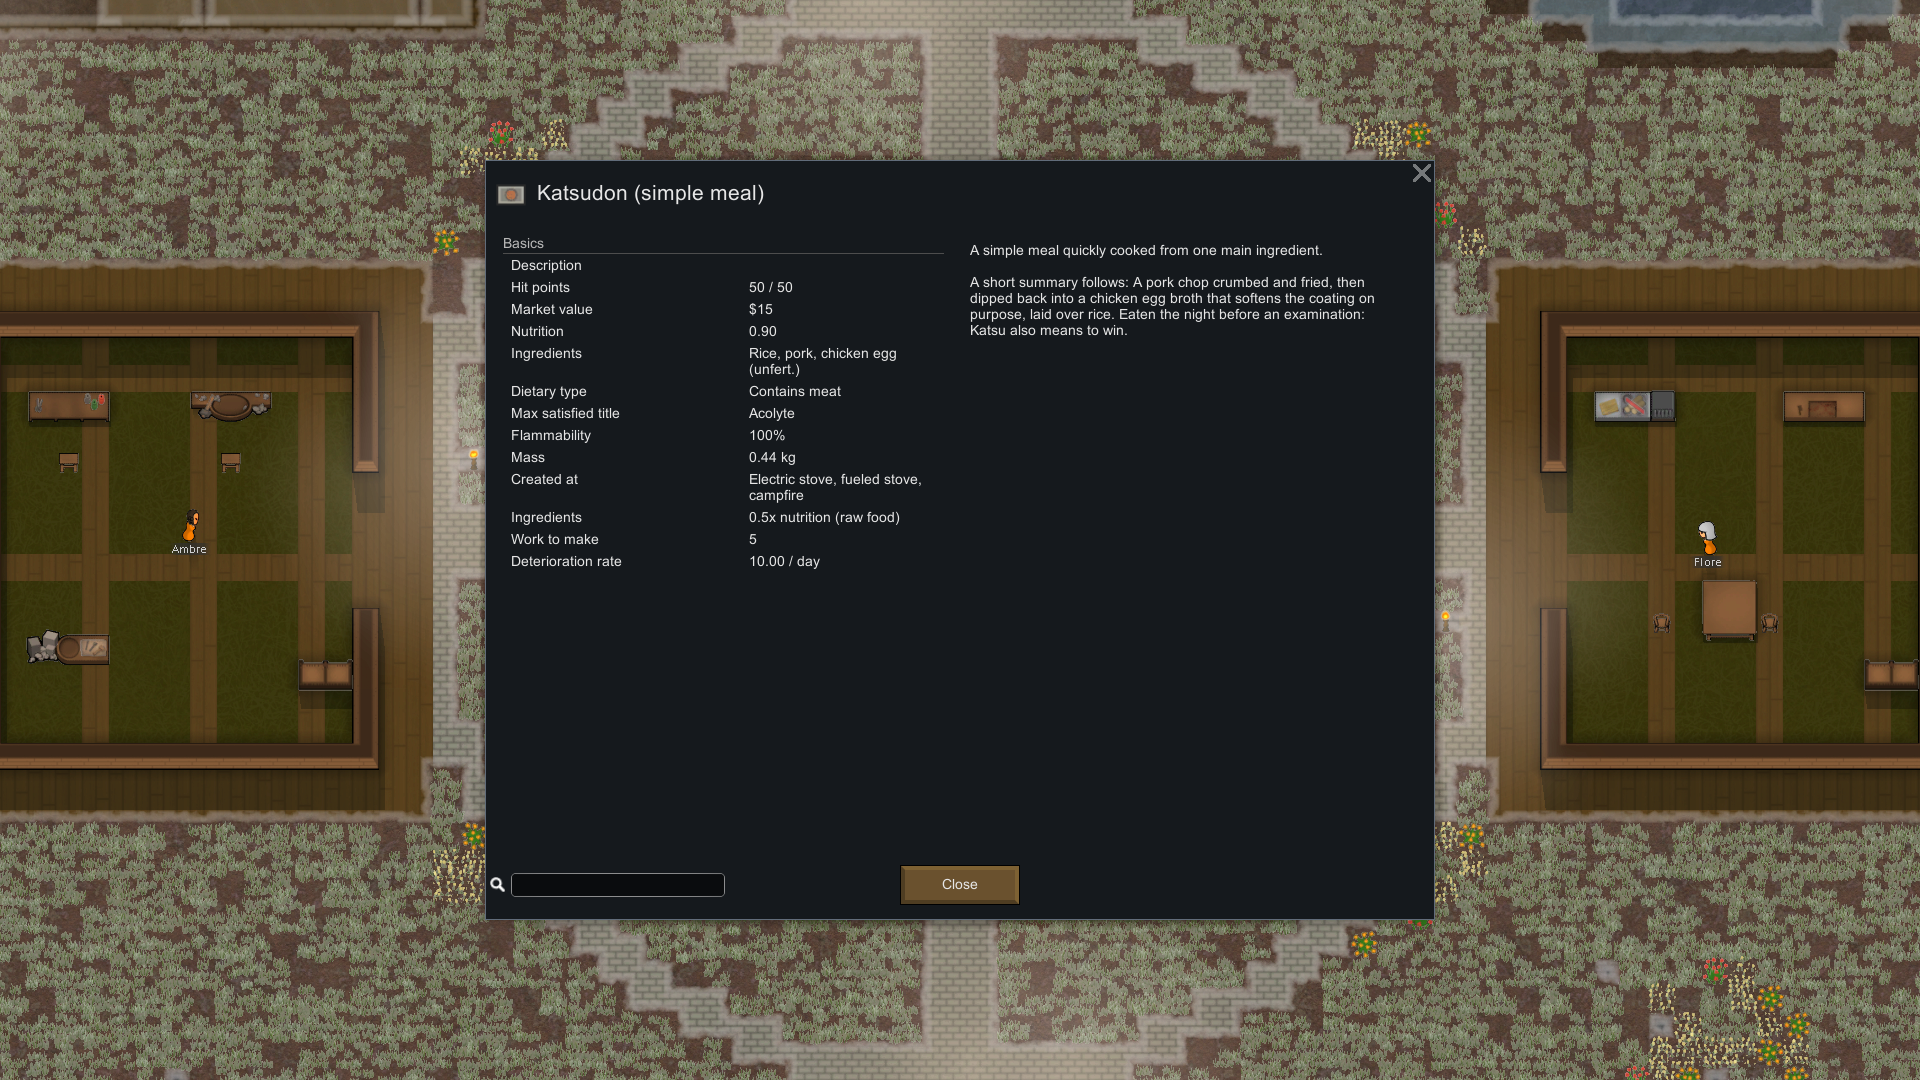
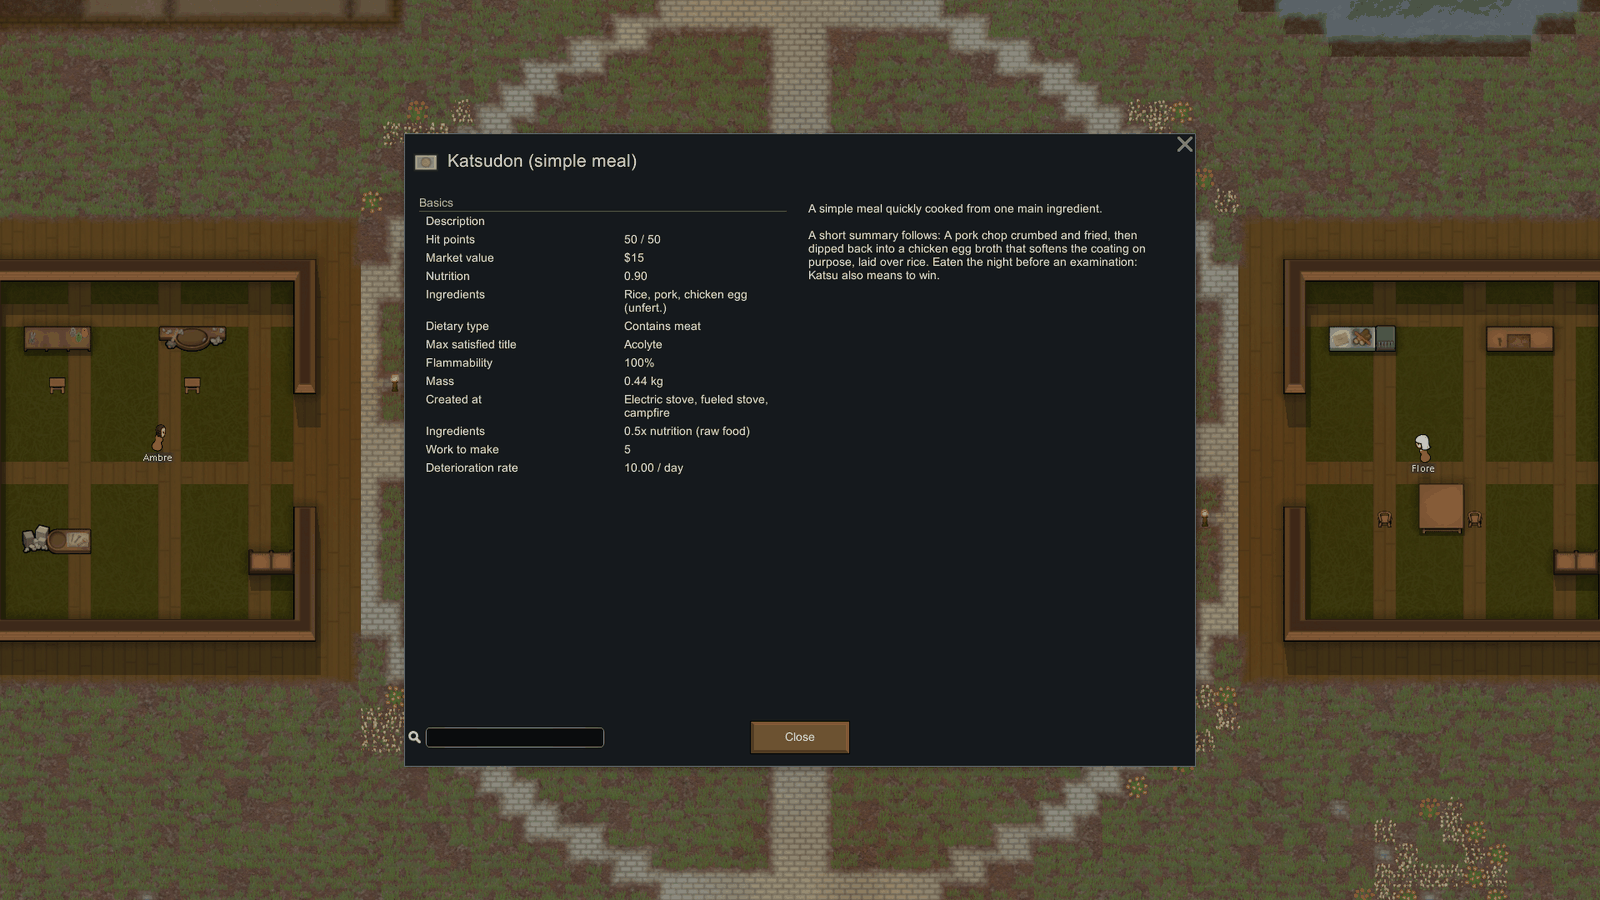
Optimize Workshop captures below Steam limit

diff --git a/PUBLICATION.md b/PUBLICATION.md
@@ -44,13 +44,16 @@ Decided from the sources, not from intent.
 ## Captures for the Workshop page
 
 `Mod/About/Preview.png` is the existing Workshop header and `Mod/About/ModIcon.png` is the in-game list icon; neither is
-a gallery capture. The three approved gallery captures are present in `Art/Workshop-captures/` and must be uploaded in
-this order:
+a gallery capture. The three approved gallery captures are present in `Art/Workshop-captures/` as 1600x900 optimized PNGs,
+each below Steam's 2 MB limit. Upload them in this order:
 
 1. `01-katsudon.png` — info card of a cooked katsudon, from rice, pork and egg: the clearest proof that the extension
    names an ordinary meal after a specific dish;
 2. `02-two-dishes-at-once.png` — info card of a meal with two dishes at once (T7): the mod's most distinctive behaviour;
 3. `03-medium-boiled-egg.png` — info card of a medium-boiled egg: the smallest complete ingredient-to-name chain.
+
+The corresponding uncompressed 1920x1080 capture files are retained in `Art/Workshop-captures/source/`; they are source
+archives, not upload candidates.
 
 A capture is disqualified if it shows dev tools, another mod's debug overlay, the launcher panel of Pickle, or an empty
 window (STYLE and AUDIT). `06-workshop-captures.feature` loads the Nelim Zen Meadow studio, frames its central tiled emblem,

diff --git a/STATUS.md b/STATUS.md
@@ -38,8 +38,9 @@ remaining:
 
 `06-workshop-captures.feature` generated the three approved presentation images from Nelim's Zen Meadow fixture.
 They were directly inspected and copied into `Art/Workshop-captures/`: `01-katsudon.png`,
-`02-two-dishes-at-once.png` and `03-medium-boiled-egg.png`. Each is a 1920x1080 PNG, shows a meal card over
-the colony set with no HUD or Pickle panel, and is recorded in the intended Steam display order in `PUBLICATION.md`.
+`02-two-dishes-at-once.png` and `03-medium-boiled-egg.png`. Each upload image is a 1600x900 optimized PNG below
+Steam's 2 MB limit; its 1920x1080 source is retained in `Art/Workshop-captures/source/`. They show a meal card over
+the colony set with no HUD or Pickle panel, and are recorded in the intended Steam display order in `PUBLICATION.md`.
 The central emblem sits behind the card by design; the owner reviewed that composition and accepted it. Uploading the
 three files to the existing Workshop gallery is a manual Steam action still outside this repository.
 

diff --git a/Art/Workshop-captures/README.md b/Art/Workshop-captures/README.md
@@ -1,7 +1,8 @@
 # Workshop gallery captures
 
 The three PNG files in this directory are the approved Flavor Text Extended Workshop gallery images, generated by
-`Tests/Pickle/Mod/Pickle/Features/06-workshop-captures.feature` on 2026-09-22.
+`Tests/Pickle/Mod/Pickle/Features/06-workshop-captures.feature` on 2026-09-22. They are optimized 1600x900 PNGs,
+each below Steam's 2 MB limit.
 
 Upload them to Steam in filename order:
 
@@ -12,3 +13,6 @@ Upload them to Steam in filename order:
 They use the `nelim-zen-meadow-studio` presentation fixture with the central-emblem camera frame. The meal card is
 intentionally retained while screenshot mode hides the HUD and Pickle-owned windows. See `../../PUBLICATION.md` for
 the display rationale and upload record.
+
+`source/` holds the original 1920x1080 captures. Keep those files for future re-encoding or visual comparison; upload
+only the optimized files at this directory's root.
